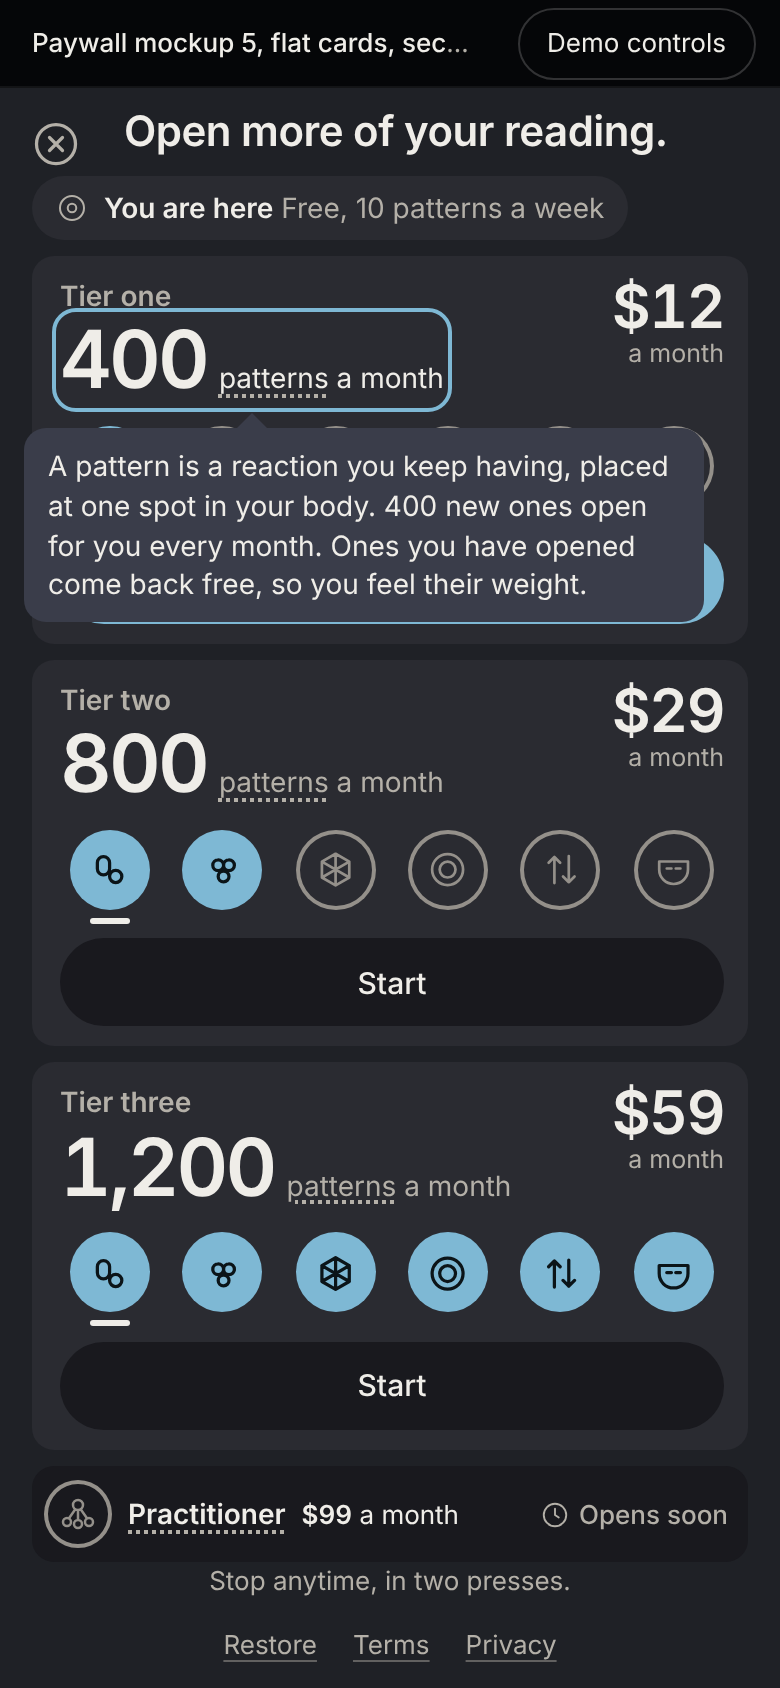
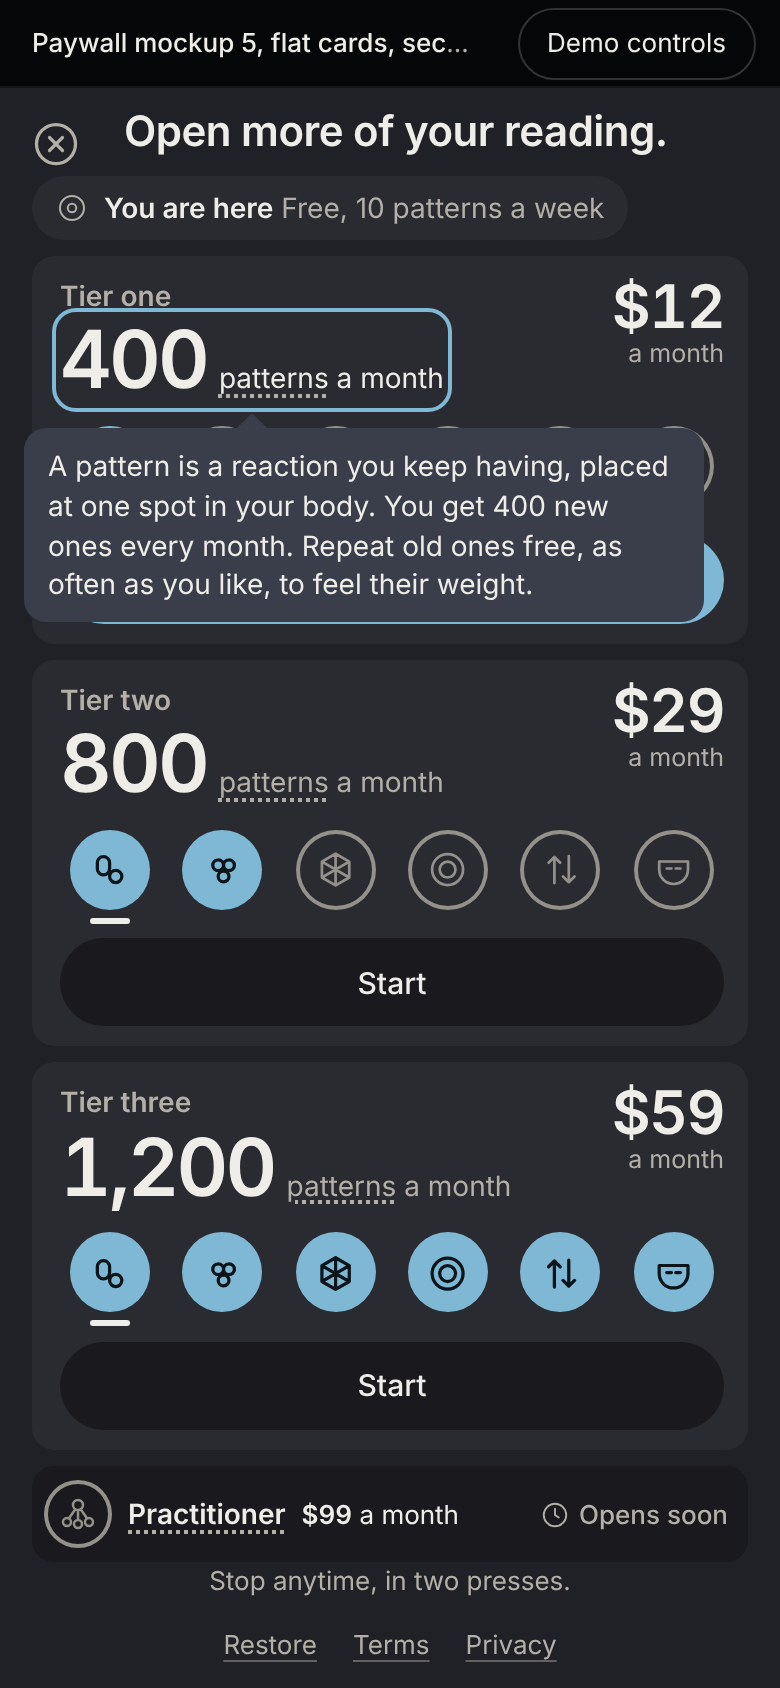
Paywall p5: honest number tooltip (repeat, not come back), README with p5 against p1
Claude-Session: https://claude.ai/code/session_016LLF9NZj8M8zDK26vbWgWq

Changed region(s): [[0.0615, 0.2773, 0.8308, 0.3697]]

diff --git a/mockups/paywall/src/play.js b/mockups/paywall/src/play.js
@@ -35,7 +35,7 @@ await pg.mouse.move(5,500);await pg.waitForTimeout(50);ok(!(await pg.isVisible('
 await pg.focus('.c5[data-pt="two"] .rg5[data-k="mask"]');ok((await pg.textContent('.tip5 b'))==='Masks'&&(await pg.textContent('.tip5 .tl'))==='Opens at tier three','p5 keyboard focus on a ring shows its tooltip');
 await pg.focus('.c5[data-pt="two"] .rg5[data-k="sab"]');await pg.keyboard.press('Tab');ok(await pg.isVisible('.tip5.on')&&(await pg.textContent('.tip5 b'))==='Complexes','p5 Tab to the next ring moves the tooltip with it');
 await pg.keyboard.press('Escape');ok(!(await pg.isVisible('.tip5.on')),'p5 Esc closes the tooltip');
-await pg.focus('.c5[data-pt="three"] .hl');ok((await pg.textContent('.tip5'))===(await pg.textContent('#ptthree'))&&(await pg.textContent('.tip5')).includes('1,200 new ones'),'p5 the number carries its meaning on focus, 1,200 on tier three');
+await pg.focus('.c5[data-pt="three"] .hl');ok((await pg.textContent('.tip5'))===(await pg.textContent('#ptthree'))&&(await pg.textContent('.tip5')).includes('1,200 new ones every month'),'p5 the number carries its meaning on focus, 1,200 on tier three');
 ok(await pg.$eval('.c5[data-pt="one"] .rg5[data-k="sab"]',e=>document.getElementById(e.getAttribute('aria-describedby')).textContent)==='Habits that run on your charge. Opens at tier one.','p5 a screen reader gets the meaning and the tier too');
 await pg.goto(P5+'?s=closed&t=sab');ok(!(await pg.$('.c5 button.go'))&&(await pg.$$eval('.c5 .shut',e=>e.length))===3,'p5 closed: three "Opens soon", no card can be pressed to pay');
 ok(!(await pg.$('.pr5 [data-act="buy"]'))&&(await pg.textContent('.pr5 .shut'))==='Opens soon','p5 Practitioner cannot be bought and says so');

diff --git a/mockups/paywall/p5-flat-cards-v2.html b/mockups/paywall/p5-flat-cards-v2.html
@@ -671,9 +671,12 @@ const W5={
  pats:'patterns a month',
  /* the number's own meaning, said once per card on hover, focus or tap. Checked
     against the code: the allowance counts meter.unique, lines never opened
-    before, and a rerun of an open line is charged nothing (relRerunPlan). */
+    before, and a rerun of an open line is charged nothing (relRerunPlan). A
+    rerun is the person's own choice (relPick always opens on new), so the line
+    says "repeat", never "they come back", which would claim the product
+    brings them round on its own. */
  patTip:t=>'A pattern is a reaction you keep having, placed at one spot in your body. '
-  +NUM(t.grant)+' new ones open for you every month. Ones you have opened come back free, so you feel their weight.',
+  +'You get '+NUM(t.grant)+' new ones every month. Repeat old ones free, as often as you like, to feel their weight.',
  opensAt:k=>'Opens at '+TIERWORD[needOf(k)],
  seeNow:'You see this now',
  start:t=>(ON==='free'?'Start ':'Move to ')+t.nm.toLowerCase(),

diff --git a/mockups/paywall/src/p5.js b/mockups/paywall/src/p5.js
@@ -37,9 +37,12 @@ const W5={
  pats:'patterns a month',
  /* the number's own meaning, said once per card on hover, focus or tap. Checked
     against the code: the allowance counts meter.unique, lines never opened
-    before, and a rerun of an open line is charged nothing (relRerunPlan). */
+    before, and a rerun of an open line is charged nothing (relRerunPlan). A
+    rerun is the person's own choice (relPick always opens on new), so the line
+    says "repeat", never "they come back", which would claim the product
+    brings them round on its own. */
  patTip:t=>'A pattern is a reaction you keep having, placed at one spot in your body. '
-  +NUM(t.grant)+' new ones open for you every month. Ones you have opened come back free, so you feel their weight.',
+  +'You get '+NUM(t.grant)+' new ones every month. Repeat old ones free, as often as you like, to feel their weight.',
  opensAt:k=>'Opens at '+TIERWORD[needOf(k)],
  seeNow:'You see this now',
  start:t=>(ON==='free'?'Start ':'Move to ')+t.nm.toLowerCase(),

diff --git a/mockups/paywall/README.md b/mockups/paywall/README.md
@@ -1,4 +1,138 @@
-# Paywall, four mockups
+# Paywall mockups
+
+## p5, flat cards, second cut. The owner's pick, fixed (17 October 2026)
+
+His words on p1: "It's a C minus. It's not maximizing the space. There's too
+much text at the bottom ... 'a pattern is one line, said once.' I don't know
+why that's there ... I think the icons under the price are great ... More
+visual, more show, less tell. Icons, I can hover over the icons and get
+information on what features I may be missing."
+
+**Open `p5-flat-cards-v2.html`.** p1 to p4 are untouched and stay as the record.
+
+What changed from p1, and which of us called it:
+
+- **Petra, the space.** The sheet fills the screen. Three cards take its full
+  height at 1600 by 1000 and at 390 by 844, with no scroll. On a desktop the six
+  rings sit 3 by 2 at about 120 px each, in the same places on every card. That
+  way the card's spare height goes to the hero, not to air.
+- **Bjorn, the order.** The patterns number is each card's headline: "400",
+  "800", "1,200" at 136 px. The price is the second level at 60 px, and the
+  tier name is the third. Gone: the legend row, the "a pattern is one line"
+  line, tier four's sentence and the two-line foot essay. The foot is one line,
+  "Stop anytime, in two presses.", with Restore, Terms and Privacy beside it.
+- **Sol, the colour.** A ring a tier opens is a solid disc of the accent. Its
+  mark stays drawn in line on top, so the house rule "ring, not fill" still
+  holds for the symbol. A ring a tier does not open is a grey outline. Solid
+  against outline is a change of shape, so colour is never the only sign. One
+  colour serves all three cards: tiers rank by how much is lit, never by hue.
+  No glow, no gradient, Punch tokens.
+- **Mika, the telling.** Every ring is a button. Hover (desktop), a tap
+  (phone) or keyboard focus opens one short card:
+  - the layer's name
+  - one plain sentence
+  - "Opens at tier two" (or "You see this now")
+
+  The number does the same with the meaning of a pattern. The locked ring the
+  person pressed to get here is marked with a bar under its column on every
+  card, so the eye runs across to where it is lit. The card that opens it
+  carries the one solid button.
+- **Practitioner** is a slim strip under the three, on the darkest ground:
+  "Practitioner, $99 a month, For people who lead others, Opens soon". Its own
+  tooltip says it is everything tier three has plus tools to guide the people
+  you lead. **Free** is a quiet "You are here" marker in the header, never a
+  card. On tier one the marker moves onto tier one's card.
+
+Every state from before is kept, with fewer words: the gift, paying closed,
+paying open, signed out with the account step inside the panel, already on tier
+one, payment failed, and the two-press stop screen.
+
+### Words and presses against p1, read off the run (`shots/measure.json`)
+
+| State | p1 words 1600 / 390 | p5 words 1600 / 390 |
+|---|---|---|
+| Paying open | 140 / 134 | 68 / 45 |
+| Today, paying closed | 137 / 137 | 65 / 45 |
+| Already on tier one | 143 / 139 | 66 / 41 |
+| Payment failed | 150 / 144 | 77 / 46 |
+| Signed out, account step | 96 / 96 | 45 / 42 |
+| The gift | 54 / 54 | 12 / 12 |
+| Stop screen | 37 / 37 | 22 / 22 |
+
+How to read the press counts:
+
+- **Things to press in view.** Paying open: p1 has 8; p5 has 29, of which 22
+  only open a tooltip (18 rings, 3 numbers, Practitioner) and 7 act (3 Start,
+  the X, Restore, Terms, Privacy). Paying closed: p1 has 5, p5 has 4 that act.
+- **Presses, unchanged from p1.** Locked ring to paid is 3 signed in (the
+  ring, Start, the payment page's confirm) and 4 signed out. Billing to paid is
+  3. Stopping a plan is 2.
+- **Tooltip words** are on demand and not in the counts above. A ring says 9
+  words, the number 35, and Practitioner 27.
+
+### Checks, all green on the final build
+
+- **`src/shots.js p5`.** 30 pictures: every state at both widths, plus a
+  locked ring hovered (1600) and tapped (390), the number opened by the
+  keyboard alone, and the Practitioner tooltip. It fails on:
+  - anything below the fold or clipped
+  - text under 4.5 to 1, or a mark under 3 to 1, each against its own ground
+  - a target under 44 by 44
+  - an open tooltip off screen or under 4.5 to 1
+  - **new:** anything hanging out of its own card. It was added because the
+    failed state on a phone pushed the Start buttons over the card edges and
+    the old gate did not see it. It was checked against that known bad case:
+    6 elements caught; the fixed build, 0.
+- **The lowest contrasts.**
+  - Text: 6.54, the "You are here" chip.
+  - Mark: 4.45, a grey locked ring on its card.
+  - Tooltip text: 9.22.
+- **`src/play.js`.** 20 p5 press checks, all pass:
+  - the pre-marked ring is on all three cards
+  - the door card has the one solid button
+  - the tiers light 1, 2 and 6 rings
+  - hover opens a tooltip and pointer-out closes it
+  - focus opens it, Tab moves it, Esc closes it
+  - a phone tap opens it, a second tap or a tap elsewhere closes it, and it
+    stays on screen
+  - a screen reader gets the meaning and the tier
+  - paying closed has no paying press
+  - Practitioner cannot be bought
+  - stop in two presses
+  - the account step stays inside the panel
+  - the gift has no padlock and no price
+- **`src/voice.py`.** 94 of 94 page lines pass. All 60 tooltip and label lines
+  pass through `check.py --line` too.
+
+### What is not true in the product yet
+
+- **"Stop anytime, in two presses."** True on this mockup's stop screen. In
+  the product today, stopping happens on Stripe's page. The two presses need
+  the server route to stop a plan at the month's end, which is not built.
+- **The refund line** is still a switch, off, for the same reasons as before
+  (below).
+- **The gift state.** The gift still locks the layers in code (`lockPlan` in
+  `ui/lock.js`).
+- **"Unique", checked against the code.** What is true:
+  - The allowance counts `meter.unique`, the lines a person has never opened
+    before. So 400 is 400 patterns new to that person each month.
+  - Repeating ones already opened is free and unlimited (`relRerunPlan`), and
+    it is the person's own choice, so the tooltip says "Repeat old ones free",
+    never "they come back".
+  - **Not true:** "new ones will be added". The pool is fixed: 112 addresses
+    by 4 channels by 50 lines, 22,400 in all. Nothing in the code adds more.
+    Spent in full, tier three opens the whole pool in about 19 months.
+- **The name.** `atuned_src/engine/plan.js` still names the rung "Tier four"
+  (PLANS, k four). p5 types "Practitioner" in one place (`src/p5.js`, PRAC).
+  Its price, allowance and closed state still come from plan.js. Renaming it
+  in plan.js is one word.
+- **"Patterns a month" against the glossary.** The tooltip uses the
+  glossary's meaning, "a reaction you keep having", not Emmy's "one line, said
+  once". The release panel counts lines, so the product still needs one
+  meaning.
+
+## The four mockups, as first sent (the record)
+
 
 Mika's seat (art), with Sol (colour and light), Bjorn (type and grid) and Petra
 (composition and symbols). Made 17 October 2026 on the owner's words: "Our
